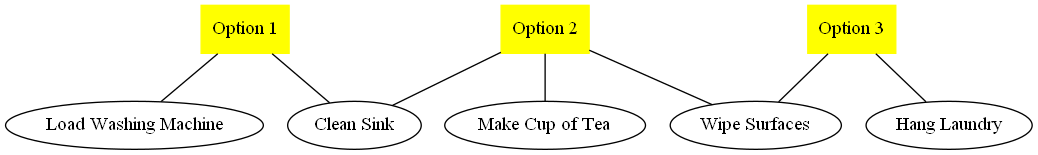
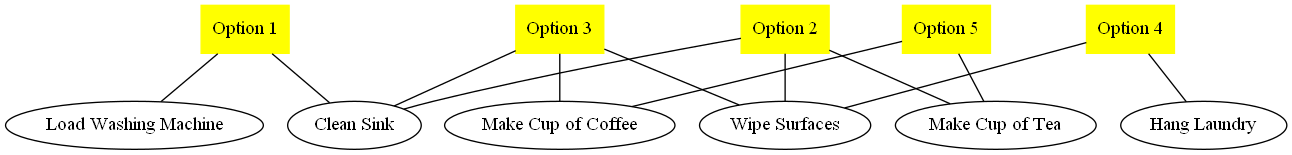
commit before making childrens tea

diff --git a/recursion_tasklist.py b/recursion_tasklist.py
@@ -8,7 +8,8 @@ tasks = [
   { 'name': 'Mop Floors', 'duration': 7 },
   { 'name': 'Hang Laundry', 'duration': 5 },
   { 'name': 'Wipe Surfaces', 'duration': 1 },
-  { 'name': 'Make Cup of Tea', 'duration': 3 }
+  { 'name': 'Make Cup of Tea', 'duration': 3 },
+  { 'name': 'Make Cup of Coffee', 'duration': 3 }
 ]
 
 timeToWork = 6
@@ -16,14 +17,19 @@ timeToWork = 6
 def doTasks(tasks, timeToWork, index=0, currentSum=0, currentCombination=[], depth=0):
     # Indentation based on recursion depth
     indent = "  " * depth  
-    print(f"{indent}doTasks(index={index}, currentSum={currentSum}, currentCombination={currentCombination})")
+    # print(f"{indent}doTasks(index={index}, currentSum={currentSum}, currentCombination={currentCombination})")
+    if currentSum > timeToWork:
+         print(f"{indent}{currentCombination}, {currentSum} minutes (too long)")
+    else:
+         print(f"{indent}{currentCombination})")
 
     # Initialize a list to store combinations
     combinations = []
 
     # If the current sum equals the target time, add the current combination to the list of combinations.
     if currentSum == timeToWork:
-        print(f"{indent}Found combination: {currentCombination}")
+        # print(f"{indent}Found combination: {currentCombination}")
+        print(f"\n{indent}Found combination: {currentCombination}, {timeToWork} minutes\n")
         combinations.append(currentCombination)
         return combinations
 

diff --git a/README.md b/README.md
@@ -17,6 +17,8 @@ _Note: This requires Graphviz to be installed._
 
 Result:
 ![Task List](./taskgraph.png)
+
+I want to visualise the whole recursion process though, I need to create a nice tree printout.
 ===
 
 IDEA for a 'what to do app': 
